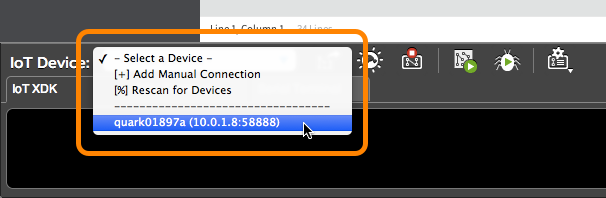
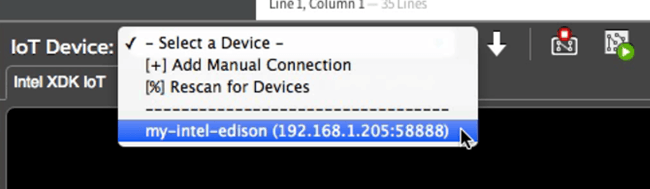
MASSIVE update to XDK section for UI changes since version 2571

diff --git a/docs/ide_setup/xdk/sample_project/troubleshooting.md b/docs/ide_setup/xdk/sample_project/troubleshooting.md
@@ -6,9 +6,13 @@ parentTitle: Intel® XDK IoT Edition - Sample Project
 ---
 
 <div id="toc" markdown="1">
+* [Problems with Wi-Fi? Need to program while offline?](#problems-with-wi-fi-need-to-program-while-offline)
 * [Don't see your device in the "IoT Device" drop down list?](#dont-see-your-device-in-the-iot-device-drop-down-list)
   * [Add a device manually](#add-a-device-manually)
   * [Restart the Intel® XDK app daemon](#restart-the-intel-xdk-app-daemon)
+* [Get a “cannot find module mraa” message?](#get-a-cannot-find-module-mraa-message)
+* [Auto-run projects upon upload](#auto-run-projects-upon-upload)
+* [Install Node modules](#install-node-modules)
 * [Additional resources](#additional-resources)
 </div>
 
@@ -16,7 +20,19 @@ parentTitle: Intel® XDK IoT Edition - Sample Project
 
 Some common issues have been listed below. For additional troubleshooting and FAQ, visit [software.intel.com/en-us/articles/intel-xdk-iot-edition-troubleshooting-and-faq](https://software.intel.com/en-us/articles/intel-xdk-iot-edition-troubleshooting-and-faq). 
 
+## Problems with Wi-Fi? Need to program while offline?
+
+The Intel® XDK requires the IP address of your IoT board in order to program it. If your IoT board is online, the IP address is automatically detected in most cases. 
+
+However, if you are unable to get your IoT board online to the same network as your computer due to restricted or busy Wi-Fi networks, try [Ethernet over USB](../../../connectivity/ethernet_over_usb/) and <span class="icon bookmark">[Add a device manually](#add-a-device-manually)</span> to the drop down list.
+
 ## Don't see your device in the "IoT Device" drop down list?
+
+* Check that your Intel® IoT board is online via Wi-Fi or ethernet, and that your development computer is on the same network as the IoT board.
+
+* If your internet network requires additional login credentials (e.g. a university Wi-Fi network), you may need to add the IP address manually. Refer to <span class="icon bookmark">[Add a device manually](#add-a-device-manually)</span> below.
+
+* If you are using Ethernet over USB for the Intel® Edison, you may need to add the IP address manually. Refer to <span class="icon bookmark">[Add a device manually](#add-a-device-manually)</span> below.
 
 ### Add a device manually
 
@@ -29,19 +45,16 @@ You will need to add the IP address of your IoT device manually if you are using
 
     !["Add Manual Connection" option in "IoT Device" drop down list](images/xdk-add_manual_connection.png)
 
-2. For "**Address**", enter the IP address of your board.
-  
-    For "**Port**", leave as the default "58888".
+2. A dialog window will appear to input the login credentials of your Intel® Edison.
 
-    ![Popup dialog to add a manual connection](images/xdk-add_manual_connection_confirmation_popup.jpg)
+    ![Device credentials input screen](images/xdk-username_password.png)
 
-    <div class="callout troubleshooting" markdown="1">
-    **Don't know the IP address?**
-
-    Refer to [Identify the IP address](../../connectivity/wifi/details-identify_ip.html). 
-    
-    Or use **192.168.2.15** if you're using [Ethernet over USB](../../connectivity/ethernet_over_usb/).
-    </div>
+    * **Address:** 
+        * Refer to [Identify the IP address](../../../connectivity/wifi/details-identify_ip.html) find your IP address when it is not discoverable. 
+        * Or use "**192.168.2.15**" if you're using [Ethernet over USB](../../../connectivity/ethernet_over_usb/).
+    * **Port:** Leave port as "**58888**"
+    * **User Name:** Unless you have changed it, use "**root**"
+    * **Password:** Unless you have changed it, use "**intel123**"
 
 3. Click "**Connect**" to try connecting to the IoT device using the manual settings.
 
@@ -60,6 +73,54 @@ The Intel® XDK app daemon may not be running on the Intel® IoT board.
     ```
 
 3. Re-check the "IoT Device" drop down list for your device.
+
+
+## Get a "cannot find module mraa" message?
+
+!["cannot find module mraa" message](images/xdk-console-mraa_missing.png)
+
+If you see this error message, your board is missing libmraa, a library for GPIO communication on Linux platforms. 
+
+1. In the bottom toolbar, click the "**Manage your daemon/IoT device**" icon.
+
+2. Click the "**Update libraries on board**" option.
+
+    !["Update libraries on board" option highlighted](images/xdk-update_libraries_on_board.png)
+
+3. After updating the MRAA libraries, click the "**Run**" icon again to re-run the project on the device.
+
+If you continue to see errors, you may need to update MRAA manually. 
+
+Connect to your IoT board via serial or SSH. Then run the following commands: 
+
+```
+echo "src mraa-upm http://iotdk.intel.com/repos/1.1/intelgalactic" > /etc/opkg/mraa-upm.conf
+opkg update
+opkg install libmraa0
+```
+
+## Auto-run projects upon upload
+
+By default (in Intel® XDK version 2571 and higher), projects do not auto start upon upload completion.
+
+!["Not auto starting by request" message in console](images/xdk-not_auto_starting.png)
+
+To change this behavior:
+
+1. In the bottom toolbar, click the "**Manage your daemon/IoT device**" icon.
+
+2. Click "**Upload Control**".
+
+3. In the "**Automatic Start**" section, select "**Automatically run after upload**".
+
+4. Click "**OK**" to save your options and close the dialog window.
+
+5. Click the "**Upload**" icon again to re-upload the project on the device and see it auto-start.
+
+
+## Install Node modules
+
+If you have any dependencies listed in **package.json**, clicking the "**Upload**" icon will also fetch all the Node modules specified in `"dependencies": {}` and install them on the IoT device.
 
 
 ## Additional resources

diff --git a/docs/ide_setup/xdk/sample_project/index.md b/docs/ide_setup/xdk/sample_project/index.md
@@ -7,7 +7,6 @@ title: Intel® XDK IoT Edition - Sample Project
 * [Create a project »](#create-a-project)
 * [Select a target IoT device »](#select-a-target-iot-device)
 * [Sync device clocks »](#sync-device-clocks)
-* [Build the application »](#build-the-application)
 * [Upload and run the application »](#upload-and-run-the-application)
 </div>
 
@@ -23,18 +22,18 @@ The Intel® XDK IoT Edition has various project creation options. To start, crea
 
 [![Animated gif: creating a project in the Intel® XDK](){: .animated data-still="images/create_xdk_project-sampleframe.jpg" data-animated="images/create_xdk_project-animated.gif"}](details-create_project.html)
 
-[View detailed instructions »](details-create_project.html){: .link-button .centered}
+[View detailed instructions for creating a project from templates »](details-create_project.html){: .link-button .centered}
 
 
 ### Select a target IoT device
 
 <div class="tldr" markdown="1">
-The Intel® XDK IoT Edition will automatically detect Intel® IoT devices on your network and display them in the "IoT Device" drop down list. 
+Select an Intel® Edison to program. The Intel® XDK IoT Edition will automatically detect Intel® IoT devices on your network and display them in the "IoT Device" drop down list. 
 </div>
 
 [![Animated gif: selecting a target device in "IoT Device" drop down list](){: .animated data-still="images/select_target_device-sampleframe.jpg" data-animated="images/select_target_device-animated.gif"}](details-select_target_device.html)
 
-[View detailed instructions »](details-select_target_device.html){: .link-button .centered}
+[View detailed instructions on selecting a target device »](details-select_target_device.html){: .link-button .centered}
 
 
 ### Sync device clocks
@@ -45,18 +44,7 @@ Sync your computer's time with the clock on the target board to avoid timing iss
 
 [![Animated gif: syncing PC time w/ clock on target device](){: .animated data-still="images/sync_clock-sampleframe.jpg" data-animated="images/sync_clock-animated.gif"}](details-sync_clock.html)
 
-[View detailed instructions »](details-sync_clock.html){: .link-button .centered}
-
-
-### Build the application
-
-<div class="tldr" markdown="1">
-Fetch all the Node modules specified in package.json and install them on the IoT device. Run build any time you create a new project, or add/remove Node modules from an existing project. 
-</div>
-
-[![Animated gif: building the app](){: .animated data-still="images/build-sampleframe.jpg" data-animated="images/build-animated.gif"}](details-build.html)
-
-[View detailed instructions »](details-build.html){: .link-button .centered}
+[View detailed instructions on syncing the clock »](details-sync_clock.html){: .link-button .centered}
 
 
 ### Upload and run the application
@@ -67,7 +55,7 @@ Upload the project files to the IoT device and run it. Remember that every time 
 
 [![Animated gif: creating a project in the Intel® XDK](){: .animated data-still="images/upload_run-sampleframe.jpg" data-animated="images/upload_run-animated.gif"}](details-upload_run.html)
 
-[View detailed instructions »](details-upload_run.html){: .link-button .centered}
+[View detailed instructions on uploading and running an app »](details-upload_run.html){: .link-button .centered}
 
 
 ### Check Intel® Edison for a blinking light
@@ -85,5 +73,5 @@ The LED is located near the center of the board.
 <div id="next-steps" class="callout done" markdown="1">
 You should now be able to successfully program the Intel® Edison and the onboard LED should be blinking.
 
-[Continue to the next step in the START HERE guide »](../../index.html#done-ide){: .link-button .centered}
+[Continue to the next step in the START HERE guide »](../../../index.html#done-ide){: .link-button .centered}
 </div>

diff --git a/docs/ide_setup/xdk/sample_project/details-select_target_device.md b/docs/ide_setup/xdk/sample_project/details-select_target_device.md
@@ -9,32 +9,37 @@ parentTitle: Intel® XDK IoT Edition - Run a Sample Project
 
     !["IoT Device" drop down list highlighted](images/xdk-iot_device_dropdown_highlighted.png)
 
-2. Select your target Intel® Edison from the list. If there are multiple devices, choose based on the device name and IP address. 
+2. Select your target Intel® Edison from the list. 
+
+    If you will be using Wi-Fi to program your board and there are multiple devices, choose the target based on the device name and IP address.
+
+    If you are using Ethernet over USB, select the board with the IP address "192.168.2.15".
 
     ![A target device being selected in "IoT Device" drop down list](images/xdk-iot_device_dropdown_options_and_devices.png)
 
-<div class="callout done" markdown="1">
-Wait a moment for the connection to be established. A popup window will appear to confirm the connection status. 
+3. A dialog window will appear to input the login credentials of your Intel® Edison.
+  
+    ![Device credentials input screen](images/xdk-username_password.png)
 
-![Connection established message](images/xdk-connection_established.png)
-</div>
+    * **Address:** IP should be auto-filled from the target device selected in Step 2
+    * **Port:** Leave port as "**58888**"
+    * **User Name:** Unless you have changed it, use "**root**"
+    * **Password:** Unless you have changed it, use "**intel123**"
+
+4. Wait a moment for the connection to be established. A popup window will appear to confirm the connection status. 
+
+    ![Connection established message](images/xdk-connection_established.png)
+
 
 <div class="callout troubleshooting" markdown="1">
 **Problems with Wi-Fi? Need to program while offline?**
 
-The Intel® XDK requires the IP address of your IoT board in order to program it. If your IoT board is online, the IP address is automatically detected in most cases. 
-
-However, if you are unable to get your IoT board online to the same network as your computer due to restricted or busy Wi-Fi networks, try [Ethernet over USB](../../connectivity/ethernet_over_usb/) and <span class="icon bookmark">[Add a device manually](troubleshooting.html#add-a-device-manually)</span> to the drop down list.
+Refer to the instructions in the [XDK troubleshooting guide](troubleshooting.html#problems-with-wi-fi-need-to-program-while-offline).
 
 ---
 
 **Do not see your device in the "IoT Device" drop down list?**
 
-* Check that your Intel® IoT board is online via Wi-Fi or ethernet, and that your development computer is on the same network as the IoT board.
-
-* If your internet network requires additional login credentials (e.g. a university Wi-Fi network), you may need to add the IP address manually. Refer to <span class="icon bookmark">[Add a device manually](troubleshooting.html#add-a-device-manually)</span> in the Troubleshooting appendix.
-
-* If you are using Ethernet over USB for the Intel® Edison, you may need to add the IP address manually. Refer to <span class="icon bookmark">[Add a device manually](troubleshooting.html#add-a-device-manually)</span> in the Troubleshooting appendix.
-
-* For more detailed troubleshooting steps, refer to <span class="icon bookmark">[Don't see your device in the "IoT Device" drop down list?](troubleshooting.html#dont-see-your-device-in-the-iot-device-drop-down-list)</span> in the Troubleshooting appendix.
+Refer to the instructions in the [XDK troubleshooting guide](troubleshooting.html#dont-see-your-device-in-the-iot-device-drop-down-list
+).
 </div>

diff --git a/docs/ide_setup/xdk/sample_project/details-create_project.md b/docs/ide_setup/xdk/sample_project/details-create_project.md
@@ -5,34 +5,44 @@ parentUrl: index.html#create-a-project
 parentTitle: Intel® XDK IoT Edition - Run a Sample Project
 ---
 
-1. Under the "**Internet of Things (IoT) with Node.js Projects**" option in the lefthand menu, select "**Start with a Sample or Template**".
+1. Under the "**Internet of Things Embedded Application**" option in the lefthand menu, select "**Templates**".
 
-    !["Start with a Sample or Template" option in sidebar](images/xdk-start_with_sample.png)
+    !["Templates" option in left sidebar highlighted](images/xdk-start_with_sample.png)
 
-2. A list of templates for developing Node.js applications will be shown. 
-
-    Select "**Onboard LED Blink**" template.
+2. A list of templates for developing Node.js applications will be shown. Select "**LED Blink**".
 
     !["Onboard LED Blink" template highlighted](images/xdk-onboard_led_blink_sample.png)
     
-3. Then click "**Use This Template"**.
+3. Click **Continue** in the bottom right.
 
-    !["Use This Template" button highlighted](images/xdk-use_this_template.png)
+    !["Continue" button highlighted](images/xdk-use_this_template.png)
 
-4. Choose a directory for your project files, and enter a name for your project.
+4. Choose a project directory for your project files.
 
-    ![Example project creation settings](images/xdk-create_folder_name_project.png)
+    ![Example project creation settings](images/xdk-select_project_directory.png)
 
-5. Click "**Create**" in the bottom right corner.
+    If this is the first time using the Intel® XDK, we recommend creating a separate "**XDK**" folder for your files. 
 
-    ![Create button highlighted](images/xdk-create_button.png)
+    ![Creating an XDK folder](images/xdk-create_folder.png)
+
+5. Enter a name for your project such as "**BlinkLED**".
+
+    ![Naming project "BlinkLED"](images/xdk-name_project.png)
+
+5. Click "**Create**".
+
+    ![Mouse cursor over "Create" button](images/xdk-create_button.png)
+
+6. A popup will confirm the successful creation of your Blink LED project. 
+
+    If this is the first time using the Intel® XDK, we recommend you take the <em>Quick Tour</em>.
+
+    ![Project created success message](images/xdk-project_created-take_tour.png)
 
 <div class="callout troubleshooting" markdown="1">
-**Missing Bonjour?**
-
-If Bonjour is not installed on your machine, you will see a "Bonjour is missing" message.
+**See a "Bonjour is missing" message? (<span class="icon windows">Windows</span> only)**
 
 ![Bonjour is missing message](images/bonjour_missing.png)
 
-**Windows users:** Complete the steps in [Install Bonjour](details-install_bonjour.html).
+Complete the steps in [Install Bonjour](../installation/details-install_bonjour.html).
 </div>

diff --git a/docs/ide_setup/xdk/sample_project/details-upload_run.md b/docs/ide_setup/xdk/sample_project/details-upload_run.md
@@ -13,31 +13,25 @@ parentTitle: Intel® XDK IoT Edition - Run a Sample Project
 
     ![An "upload complete" message in the console](images/xdk-console-upload_complete.png)
 
-3. In the bottom toolbar, click the "**Run**" icon to run the project that is currently installed on the device.
+3. In the bottom toolbar, click the "**Run**" icon to run the project that is currently uploaded.
 
     !["Run" button in bottom toolbar](images/xdk-run_button.png)
 
-4. Keep an eye on the console log bar for any runtime errors.
+4. Keep an eye on the console for any runtime errors. If there are no errors, you should see the MRAA library version number outputted to the console.
 
-    !["Toggle console window" button in bottom toolbar](images/xdk-toggle_console_button.png)
+    ![MRAA version number output in the console](images/xdk-mraa_version_outputted.png)
 
-    Click the "Toggle console window" icon if you see any messages and the console is not already expanded.
+    `console.log('MRAA Version: ' + mraa.getVersion());` was declared in the app code on line 20:
+
+    ![MRAA version number output in the code](images/xdk-mraa_console_log_code.png)
+
+    **If you see a version number outputted, your Intel® Edison is running its first app!**
+    
 
 <div class="callout troubleshooting" markdown="1">
 **Get a "cannot find module mraa" message?**
 
 !["cannot find module mraa" message](images/xdk-console-mraa_missing.png)
 
-If you see this error message, your board is missing libmraa, a library for GPIO communication on Linux platforms. 
-Connect to your IoT board via serial or SSH. Then run the following commands: 
-
-```
-echo "src mraa-upm http://iotdk.intel.com/repos/1.1/intelgalactic" > /etc/opkg/mraa-upm.conf
-opkg update
-opkg install libmraa0
-```
-
-The first command will edit the mraa-upm config file on the board. The last two commands use the board's built-in Opkg package manager to download and update the missing library.
-
-After updating the MRAA libraries, return to the Intel® XDK. Click the "Run" icon again to re-run the project on the device.
+Refer to the instructions in the [XDK troubleshooting guide](troubleshooting.html#get-a-cannot-find-module-mraa-message).
 </div>

diff --git a/docs/ide_setup/xdk/sample_project/details-sync_clock.md b/docs/ide_setup/xdk/sample_project/details-sync_clock.md
@@ -5,16 +5,25 @@ parentUrl: index.html#sync-device-clocks
 parentTitle: Intel® XDK IoT Edition - Run a Sample Project
 ---
 
-1. In the bottom toolbar, click the "**Manage your daemon/IoT device**"** icon**.
+<div class="callout troubleshooting" markdown="1">
+
+**Get a "Clock skew detected" message?**
+
+!["Clock skew detected" error popup](images/xdk-clock_skew_detected.png)
+
+Click "**Sync**" to update the clock time on your Intel® Edison now. 
+
+Otherwise, sync the clock manually by following the steps below at any time.
+</div>
+
+1. In the bottom toolbar, click the "**Manage your daemon/IoT device**" icon.
 
     !["Manage your daemon/IoT device" in bottom toolbar](images/xdk-manage_button.png)
 
-2. Select "**sync PC time w/ clock on target device**".
+2. Select "**Sync PC time w/ clock on target device**".
 
-    !["sync PC time w/ clock on target device" option in Manage settings menu](images/xdk-sync_clock.png)
+    !["Sync PC time w/ clock on target device" option in Manage settings menu](images/xdk-sync_clock.png)
 
-<div class="callout done" markdown="1">
-A message in the console log will appear to confirm the update.
+3. Wait one moment. A message in the console log will appear to confirm the updated clock time.
 
-![New System Time message in console](images/xdk-console-new_system_time.png)
-</div>
+    !["New System Time" confirmation message in console](images/xdk-console-new_system_time.png)

diff --git a/docs/ide_setup/xdk/sample_project/details-build.md b/docs/ide_setup/xdk/sample_project/details-build.md
@@ -5,14 +5,6 @@ parentUrl: index.html#build-the-application
 parentTitle: Intel® XDK IoT Edition - Run a Sample Project
 ---
 
-1. In the bottom toolbar, click the "**Install/Build**" icon.
-
-    !["Install/Build" in bottom toolbar](images/xdk-install_build_button.png)
-
-2. In the popup, click "**Build**".
-
-    ![Confirm build of new project](images/xdk-new_project_build_confirmation.png)
-
 <div class="callout done" markdown="1">
 Wait a moment for the packages to download and install. You will see a confirmation message in the console log.
 
